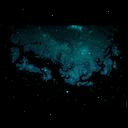
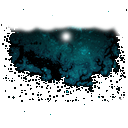
* explosion effect * some sounds * backgrounds

diff --git a/game/source/source/RenderSystem.cpp b/game/source/source/RenderSystem.cpp
@@ -23,6 +23,9 @@ gameplay::Planet4, gameplay::Planet5, gameplay::Planet6 };
 float m_planetRotations[6];
 float m_planetRotationSpeed[6];
 
+u32 bgSprites[] = { gameplay::SpaceBackgroundChunk1, gameplay::SpaceBackgroundChunk2,
+    gameplay::SpaceBackgroundChunk3, gameplay::SpaceBackgroundChunk4 };
+
 float m_bgAlphas[4] = { 0.0f, 0.0f, 0.0f, 0.0f };
 float m_bgAngles[4] = { 0.0f, 0.0f, 0.0f, 0.0f };
 v2f m_bgPositions[4] = { {0.0f, 100.0f}, {100.0f, 200.0f}, {200.0f, 300.0f}, {300.0f, 400.0f} }; // initially it is treated as a range of radius but later as an abs pos
@@ -39,9 +42,7 @@ RenderSystem::RenderSystem()
     for (int i = 0; i < ARRAY_SIZE(m_bgAngles); ++i)
     {
         m_bgAngles[i] = RandomHelper::s_rnd.frand() * (float)M_PI;
-        m_bgAlphas[i] = RandomHelper::s_rnd.frand();
-        //auto r = RandomHelper::RndRange(m_bgPositions[i]);
-        //m_bgPositions[i] = RandomHelper::
+        m_bgAlphas[i] = RandomHelper::s_rnd.frand() * 0.5f;
     }
 }
 
@@ -55,9 +56,11 @@ void RenderSystem::Update(float dt, entt::DefaultRegistry& registry)
 
     // update effects
     registry.view<ExplosionEffectComponent>().each(
-        [&](auto /*ent*/, ExplosionEffectComponent& explComp)
-    {
-        explComp.m_progress += dt;
+        [&](auto ent, ExplosionEffectComponent& explComp)
+    {        
+        explComp.UpdateProgress(dt); 
+        if (explComp.m_progress == 1.0f) // todo: need to have decent animation sprite class...
+            registry.destroy(ent);
     });
 }
 
@@ -68,7 +71,15 @@ void RenderSystem::Render(r::Render& r, GameResources& gRes, entt::DefaultRegist
     dr.SetTransform(offset);
 
     // background
-    gRes.m_sheet->Draw(r, gameplay::SpaceBackgroundChunk1, v2f() + offset, 0x44ffffff, 8.0f, m_bgAlphas[0],true);
+    int bgIndex = 0;
+    registry.view<v2f>().each( [&](auto /*entity*/, v2f& pos)
+    {
+        gRes.m_sheet->Draw(r, bgSprites[bgIndex], pos + offset,
+            0x44ffffff, 8.0f, m_bgAlphas[bgIndex], true);
+        ++bgIndex;
+    });
+
+    
     //gRes.m_sheet->Draw(r, gameplay::SpaceBackgroundChunk3, v2f(333,333) + offset, COLOR_WHITE, 8.0f);
 
     registry.view<PhysicsAgentComponent, EntityTypeComponent>().each(
@@ -151,12 +162,6 @@ void RenderSystem::Render(r::Render& r, GameResources& gRes, entt::DefaultRegist
                 psxComp.m_agent->pos + offset,
                 COLOR_WHITE, 1.25f);
             
-            //gRes.m_sheet->Draw(
-            //    r,
-            //    gameplay::Gun,
-            //    psxComp.m_agent->pos + offset,
-            //    COLOR_WHITE, 1.6f);
-
             if (playerComp.m_energy > 0.0f)
                 gRes.m_sheet->Draw(
                     r,
@@ -170,24 +175,24 @@ void RenderSystem::Render(r::Render& r, GameResources& gRes, entt::DefaultRegist
     registry.view<ExplosionEffectComponent>().each(
         [&](auto /*ent*/, ExplosionEffectComponent& explComp)
     {
-        gRes.m_explSprite->Draw(r, 3, explComp.m_pos + offset);
+        gRes.m_explSprite->Draw(r, 
+            (u32)(explComp.m_progress * (ani_expl::GetNFrames(ani_expl::aExp) -1)), 
+            explComp.m_pos + offset); // todo: need to have decent animation sprite class...
     });
 
 #ifdef _DEBUG
 
-    //    dr.DrawStar(v2f(), 10.0f, 4, COLOR_YELLOW);
+    dr.DrawStar(v2f(), 10.0f, 4, COLOR_YELLOW);
     // draw physics body wire
-    //registry.view<PhysicsAgentComponent>().each([&](auto /*entity*/, PhysicsAgentComponent& psxComp)
-    //{    
-    //    dr.DrawCircle(psxComp.m_agent->pos, psxComp.m_agent->radius, 16, COLOR_WHITE);
-    //});
+    registry.view<PhysicsAgentComponent>().each([&](auto /*entity*/, PhysicsAgentComponent& psxComp)
+    {    
+        dr.DrawCircle(psxComp.m_agent->pos, psxComp.m_agent->radius, 16, COLOR_WHITE);
+    });
 
     // draw impact radius
     registry.view<PhysicsAgentComponent, PlayerComponent>().each([&]
     (auto /*entity*/, PhysicsAgentComponent& psxComp, PlayerComponent& playerComp)
     {
-        //dr.DrawCircle(psxComp.m_agent->pos, SHIP_IMPACT_RADIUS, 16, COLOR_AQUA);
-
         bool isInPower = playerComp.m_energy > 0.0f;
         if (isInPower)
             registry.view<EnergyResourceComponent>().each([&](auto ett, EnergyResourceComponent& /*erComp*/)

diff --git a/game/source/source/PhysicsSystem.cpp b/game/source/source/PhysicsSystem.cpp
@@ -8,6 +8,7 @@
 #include "EnergyResourceComponent.h"
 #include "config.h"
 #include "level.h"
+#include "screengameplay.h"
 
 using namespace vp;
 
@@ -62,7 +63,7 @@ void PhysicsSystem::RemoveObstacle(const uint32_t& entt)
 }
 
 static const float GravConst = 1000.25f;
-void PhysicsSystem::Update(float dt, entt::DefaultRegistry& registry)
+void PhysicsSystem::Update(float dt, entt::DefaultRegistry& registry, GameResources& res)
 {
     m_vps.ProcessTime(dt);
 
@@ -91,6 +92,7 @@ void PhysicsSystem::Update(float dt, entt::DefaultRegistry& registry)
             {
                 registry.assign<ExplosionEffectComponent>(registry.create(), psxComp.m_agent->pos);
                 m_level.DeleteEntity(psxEnt);
+                res.m_sfxExplode1->Play();
             }
         }        
     });
@@ -114,38 +116,4 @@ void PhysicsSystem::OnCollide(const Collision& collision)
     auto& psx2 = m_registry.get<PhysicsAgentComponent>(collision.mP2->m_entity);
     psx1.m_hitImpact += 5.0f;
     psx2.m_hitImpact += 5.0f;
-
-    //uint32_t bullet, ship;
-    //if (IsAtoBCollision(collision, EntityTypeComponent::PlasmaBullet, EntityTypeComponent::Ship, bullet, ship))
-    //{
-    //}
 }
-
-//bool PhysicsSystem::IsAtoBCollision(const vp::Collision& collision,
-//    EntityTypeComponent::EntityType typeA,
-//    EntityTypeComponent::EntityType typeB,
-//    uint32_t& a,
-//    uint32_t& b)
-//{
-//    EASSERT(collision.mP1 != nullptr);
-//    EASSERT(collision.mP2 != nullptr);
-//
-//    if( !(m_registry.has<EntityTypeComponent>(collision.mP1->m_entity) &&
-//        m_registry.has<EntityTypeComponent>(collision.mP2->m_entity)))
-//        return false;
-//
-//    auto et1 = m_registry.get<EntityTypeComponent>(collision.mP1->m_entity).m_entityType;
-//    if (et1 == typeA)
-//        a = collision.mP1->m_entity;
-//    if (et1 == typeB)
-//        b = collision.mP1->m_entity;
-//
-//    auto et2 = m_registry.get<EntityTypeComponent>(collision.mP2->m_entity).m_entityType;
-//    if (et2 == typeA)
-//        a = collision.mP2->m_entity;
-//    if (et2 == typeB)
-//        b = collision.mP2->m_entity;
-//
-//    return (et1 == typeA && et2 == typeB) || (et1 == typeB && et2 == typeA);
-//}
-

diff --git a/game/source/source/screenmainmenu.cpp b/game/source/source/screenmainmenu.cpp
@@ -7,7 +7,6 @@
 #include "config.h"
 
 using namespace mt;
-using namespace in;
 using namespace r;
 
 ScreenMainMenu::ScreenMainMenu(Application& g)
@@ -19,14 +18,13 @@ ScreenMainMenu::ScreenMainMenu(Application& g)
     g.GetRender().SetClearColor(COLOR_BLACK);
     m_logoText.SetText(m_fnt, L"Space Fight");
     m_logoText.SetFontScale(4);
-    m_logoText.SetFilter(Material::fmNearest); // ???
     m_logoText.SetAlign(BitmapText::tlCenter);
 
     m_promtText.SetText(m_fnt, L"Hit <ENTER> to start the fight");
     m_promtText.SetAlign(BitmapText::tlCenter);
     m_promtText.SetPosition(v2f(0, 700));
 
-    //m_app.GetSMGR().StartMusic(RES_MUSMAINMENU_MP3);
+    m_app.GetSMGR().StartMusic(RES_MUSMAINMENU_MP3);    
 }
 
 ScreenMainMenu::~ScreenMainMenu()
@@ -59,5 +57,3 @@ void ScreenMainMenu::Update(f32 /*dt*/)
         m_app.GetScreenManager().Push(new ScreenGameplay(m_app, SessionContext()));
     }
 }
-
-

diff --git a/game/source/source/Level.cpp b/game/source/source/Level.cpp
@@ -39,6 +39,14 @@ void Level::CreateLevelRandom()
     CreatePlayerEntity(0, v2f(-200.0f, 0.0f));
     CreatePlayerEntity(1, v2f(200.0f, 0.0f));
 
+    // create bg
+    for (int i = 0; i < 4; ++i)
+    {
+        v2f rndPos((float)RandomHelper::RndRange(200, SCREEN_WIDTH - 200), (float)RandomHelper::RndRange(200, SCREEN_HEIGHT - 200));
+        rndPos -= v2f(SCREEN_WIDTH / 2, SCREEN_HEIGHT / 2);
+        CreateBG(rndPos);
+    }
+
     // create planets
     auto planetMaxAmount = RandomHelper::RndRange(m_options.PlanetsAmmount);
     for (int i = 0; i < planetMaxAmount; ++i)
@@ -141,6 +149,12 @@ void Level::CreateEnergyStation(const mt::v2f& pos)
         station,
         m_physicsSystem.AddAgent(station, pos, 0.0f, 10.0f, true)
         );
+}
+
+void Level::CreateBG(const v2f& pos)
+{
+    const auto bg = m_registry.create();
+    m_registry.assign<v2f>(bg, pos);
 }
 
 

diff --git a/game/source/source/application.cpp b/game/source/source/application.cpp
@@ -18,11 +18,12 @@ Application::Application() : m_rpool(64)
 bool Application::Init()
 {
     // console 
-#ifdef _DEBUG 
-    //dlog::Log::GetInstance()->EnableLogger(0, new dlog::LoggerSysConsole("unit test info", 120, 1200));
-    //dlog::Log::GetInstance()->GetLogger(0)->SetLevelFilter(dlog::Log::PRIORITY_DEBUG);
-    //NLOGI_COLOR("sf", "Space fight v.0.1. Initializing[c:ff0000].[c:00ff00].[c:0000ff].[c:ffffff]");
+#if defined(_DEBUG) && defined(SHOW_CONSOLE)
+    dlog::Log::GetInstance()->EnableLogger(0, new dlog::LoggerSysConsole("console", 120, 1200));
+    dlog::Log::GetInstance()->GetLogger(0)->SetLevelFilter(dlog::Log::PRIORITY_DEBUG);
+    NLOGI_COLOR("sf", "Space fight v.0.1. Initializing[c:ff0000].[c:00ff00].[c:0000ff].[c:ffffff]");
 #endif
+
     // renderer
     if (!m_render.Init())
         return false;

diff --git a/game/source/source/PhysicsSystem.h b/game/source/source/PhysicsSystem.h
@@ -8,7 +8,7 @@
 
 
 class Level;
-
+struct GameResources;
 class PhysicsSystem : public vp::ICollisionListener
 {
 public:
@@ -23,7 +23,7 @@ public:
 
 
 
-    void Update(float dt, entt::DefaultRegistry& registry);
+    void Update(float dt, entt::DefaultRegistry& registry, GameResources& res);
 private: 
     vp::VerletPhysicsSystem  m_vps; // verlet physics simulation system
     entt::DefaultRegistry&   m_registry;

diff --git a/game/source/source/screengameplay.cpp b/game/source/source/screengameplay.cpp
@@ -99,7 +99,7 @@ void ScreenGameplay::Update(f32 dt)
 
         // update systems        
         m_playerControllerSystem.Update(dt, m_registry);
-        m_physicsSystem.Update(dt, m_registry);
+        m_physicsSystem.Update(dt, m_registry, m_res);
         m_gameRuleSystem.Update(dt, m_registry);
         if (m_gameRuleSystem.HasWinner())
         {

diff --git a/game/source/source/widgets.cpp b/game/source/source/widgets.cpp
@@ -116,6 +116,7 @@ void WidgetModalMessage::Show(const wchar_t* mainText, const wchar_t* secondaryT
     m_textMain.SetText(m_res.m_fnt, mainText);
     m_textSecondary.SetText(m_res.m_fnt, secondaryText);
     m_stateDuration = duration;
+    m_res.m_sfxMenuApply->Play();
 }
 
 void WidgetModalMessage::Close()

diff --git a/game/source/source/Level.h b/game/source/source/Level.h
@@ -66,6 +66,7 @@ private:
     void CreatePlayerEntity(int playerID, const mt::v2f& pos);
     void CreatePlanet(const mt::v2f& pos);
     void CreateEnergyStation(const mt::v2f& pos);
+    void CreateBG(const mt::v2f& pos);
     bool IsHit(const mt::v2f& pos);
 };
 

diff --git a/game/source/source/ExplosionEffectComponent.cpp b/game/source/source/ExplosionEffectComponent.cpp
@@ -5,3 +5,9 @@ ExplosionEffectComponent::ExplosionEffectComponent(const mt::v2f& pos)
     , m_pos(pos)
 {
 }
+
+
+void ExplosionEffectComponent::UpdateProgress(float dt)
+{
+    m_progress = mt::Clamp(m_progress + dt, 0.0f, 1.0f);
+}

diff --git a/game/source/source/ExplosionEffectComponent.h b/game/source/source/ExplosionEffectComponent.h
@@ -7,6 +7,8 @@ struct ExplosionEffectComponent final
     ExplosionEffectComponent( const mt::v2f& pos );
     float m_progress;
     mt::v2f m_pos;
+
+    void UpdateProgress(float dt);
 };
 
 #endif
